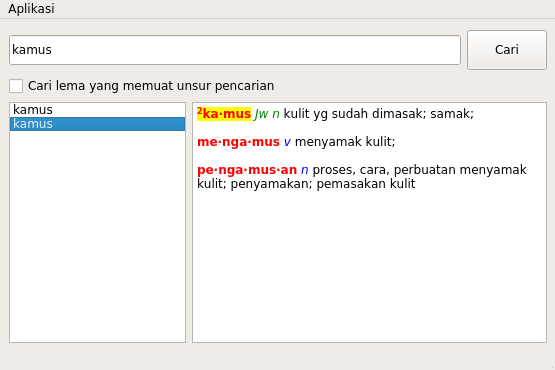
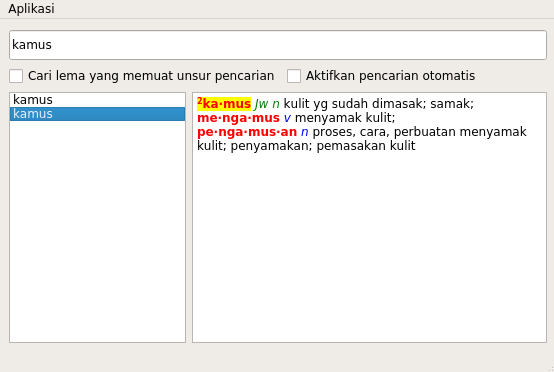
dokumentasi, sampai commit 813d798
* bersih-bersih tulisan
* perbarui gambar
* benahi ejaan

diff --git a/doc/dokumentasi.md b/doc/dokumentasi.md
@@ -2,15 +2,15 @@
 ## 1.1 Apa itu KBBI-Qt?
 KBBI-Qt adalah aplikasi Kamus Besar Bahasa Indonesia yang dikembangkan dengan bahasa pemrograman C++ dan Framework Qt.
 
-Dirilis dengan lisensi GNU GPL v3.0, maka KBBI Qt adalah ([free software](https://www.gnu.org/philosophy/free-sw.en.html)), sehingga aplikasi yang dikembangkan oleh komunitas Belajar GNU/Linux Indonesia (BGLI) ini bebas dijalankan untuk tujuan apa pun, digunakan, didistribusikan (baik berbayar atau gratis), disalin, dimodifikasi, dan dikembangkan.
+Dirilis dengan lisensi GNU GPL v3.0, maka KBBI Qt adalah [*free software*][3], sehingga aplikasi yang dikembangkan oleh komunitas Belajar GNU/Linux Indonesia (BGLI) ini bebas dijalankan untuk tujuan apa pun, digunakan, didistribusikan (baik berbayar atau gratis), disalin, dimodifikasi, dan dikembangkan.
 
-## 1.2 Keuntungan menggunakan KBBI-qt
+## 1.2 Keuntungan menggunakan KBBI-Qt
 Badan Pengembangan dan Pembinaan Bahasa (Badan Bahasa) serta Kementerian Pendidikan dan Kebudayaan (Kemendikbud) sebenarnya telah merilis aplikasi KBBI berbasis web; [kbbi.web.id][0] (KBBI III), [kbbi4.portalbahasa.com][1] (KBBI IV), dan [kbbi.kemdikbud.go.id][2] (KBBI V). Namun, ketiganya memiliki kekurangan, yakni pengguna harus dalam keadaan daring untuk mengaksesnya.
 
-KBBI-Qt ingin memastikan bahwa pengguna bisa mengakses KBBI dalam keadaan luring melalui komputer atau laptop.
+KBBI-Qt ingin memastikan bahwa pengguna dapat mengakses KBBI dalam keadaan luring melalui komputer atau laptop.
 
 # 2. Pemasangan KBBI-Qt
-Beberapa kontributor telah memaketkan aplikasi KBBI-Qt ke paket-paket distro tertentu. Berikut cara instal KBBI-Qt di CentOS/RHEL7 dan Fedora 23/34/25/Rawhide. Serta cara instal melalui *source code* (*compile* manual).
+Beberapa kontributor telah memaketkan aplikasi KBBI-Qt untuk CentOS/RHEL7 dan Fedora. Berikut cara instal melalui distro tersebut, ditambah cara instal dari *source code* (*compile* manual).
 
 ## 2.1 Di CentOS/RHEL7
     $ sudo wget https://copr.fedorainfracloud.org/coprs/alunux/kbbi-qt-git/repo/epel-7/alunux-kbbi-qt-git-epel-7.repo -O /etc/yum.repos.d/kbbi-qt.repo
@@ -20,23 +20,20 @@ Beberapa kontributor telah memaketkan aplikasi KBBI-Qt ke paket-paket distro ter
     $ sudo dnf copr enable alunux/kbbi-qt-git
     $ sudo dnf install KBBI-Qt
 
-## 2.4 Di distro X
-
-## 2.x Instal dari source code
-
+## 2.3 Instal dari source code
     $ git clone https://github.com/bgli/kbbi-qt.git
     $ cd kbbi-qt/src
     $ qmake -project
     $ make
 
 # 3. Pengenalan antarmuka
-![pengenalan antarmuka](gbr/pengenalan-antarmuka.png)
+![pengenalan antarmuka](gbr/pengenalan-antarmuka.jpg)
 
 # 4. Penggunaan KBBI-Qt
 
 ## 4.1 Cari arti kata
 
-Untuk mencari arti kata "kamus", ketikkan kata "kamus" dalam kolom pencarian, lalu klik tombol "Cari" atau tekan Enter pada *keyboard*.
+Untuk mencari arti kata "kamus", ketikkan kata "kamus" dalam kolom pencarian, lalu tekan Enter pada *keyboard*. Centang opsi "**Aktifkan pencarian otomatis**" untuk mencari arti kata tanpa perlu menekan Enter.
 
 Hasil pencarian akan muncul pada kolom kanan, lihat gambar di bawah ini.
 
@@ -48,7 +45,7 @@ Jika kata yang dicari mengandung lebih dari satu arti, kata akan muncul sebanyak
 
 ## 4.2 Cari arti atau kata yang mengandung lema
 
-Centang pada "Cari lema yang memuat unsur pencarian" untuk menghasilkan daftar lema yang artinya memuat kata yang dicari.
+Centang pada "**Cari lema yang memuat unsur pencarian**" untuk menghasilkan daftar lema yang artinya memuat kata yang dicari.
 
 Misal, kata "kamus" termuat dalam arti kata "bahasa", "bausastra", "beli", dll.
 
@@ -58,9 +55,7 @@ Misal, kata "kamus" termuat dalam arti kata "bahasa", "bausastra", "beli", dll.
 
 Klik kolom hasil pencarian, tahan tombol *Ctrl* pada *keyboard*, lalu *scroll* menggunakan *mouse*.
 
-# 5. Solusi masalah, misal kalau ada masalah di distro tertentu, bukan bug (opsional)
-
 [0]: http://kbbi.web.id
 [1]: http://kbbi4.portalbahasa.com
 [2]: http://kbbi.kemdikbud.go.id/
-[4]: https://www.gnu.org/philosophy/free-sw.en.html
+[3]: https://www.gnu.org/philosophy/free-sw.en.html
